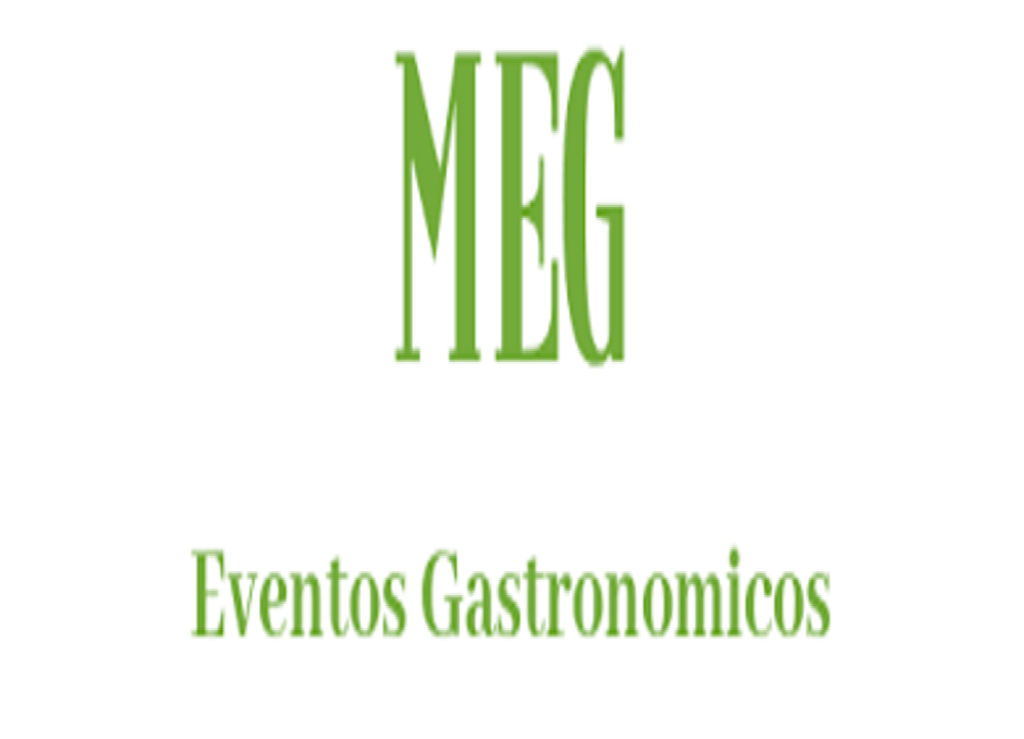
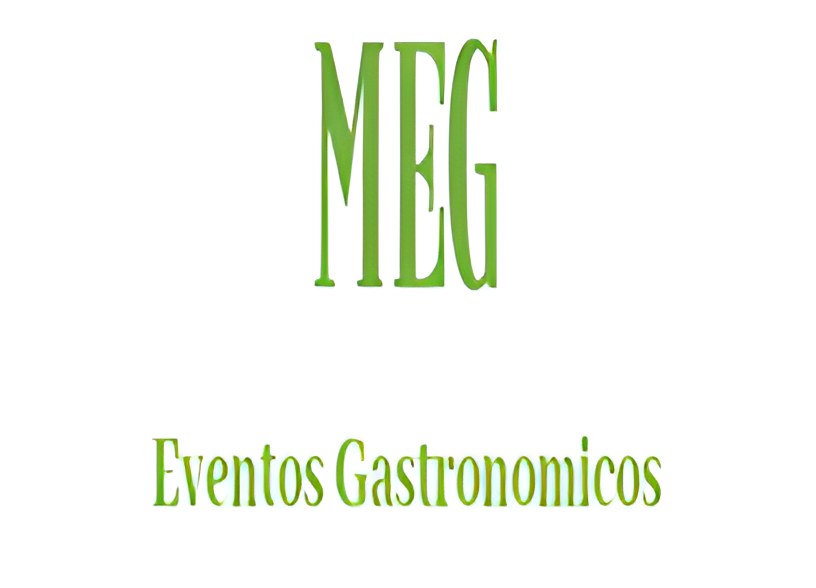
haciendo arreglos de fondo y color de texto

Changed region(s): [[0.1838, 0.7347, 0.8272, 0.8878], [0.3676, 0.0612, 0.6127, 0.4898], [0.3676, 0.1531, 0.3983, 0.2143]]

diff --git a/css/main.css b/css/main.css
@@ -1,13 +1,13 @@
 * {
   margin: 0;
   padding: 0;
-  font-family: Cambria, Cochin, Georgia, Times, 'Times New Roman', serif;
-  color: black; }
+  font-family: Cambria, Cochin, Georgia, Times, 'Times New Roman', serif; }
 
 body {
-  background-image: url(../images/imagen_fondo.png);
+  background-image: url(../images/imagen_fondo2.png);
   background-position: center;
-  background-repeat: no-repeat; }
+  background-repeat: no-repeat;
+  background-size: cover; }
 
 .barraNav {
   border-bottom: solid 3px black; }
@@ -24,6 +24,7 @@ body {
 
 .logosFooter {
   background-color: grey;
+  margin-top: 5%;
   border-top: solid 3px black;
   font-size: 25px;
   text-align: center; }
@@ -99,7 +100,9 @@ body {
     margin-left: 5%;
     margin-right: 5%;
     opacity: 0;
-    transition: opacity 1s; }
+    transition: opacity 1s;
+    color: white;
+    -webkit-text-stroke: 0.5px black; }
   .divPlatos .p5 {
     position: absolute;
     top: 55%;
@@ -109,7 +112,9 @@ body {
     margin-left: 5%;
     margin-right: 5%;
     opacity: 0;
-    transition: opacity 1s; }
+    transition: opacity 1s;
+    color: white;
+    -webkit-text-stroke: 0.5px black; }
   .divPlatos .p6 {
     position: absolute;
     top: 55%;
@@ -119,7 +124,9 @@ body {
     margin-left: 5%;
     margin-right: 5%;
     opacity: 0;
-    transition: opacity 1s; }
+    transition: opacity 1s;
+    color: white;
+    -webkit-text-stroke: 0.5px black; }
   .divPlatos:hover .divPlatos__imagenPlatos {
     opacity: 30%; }
   .divPlatos:hover .p1-4 {
@@ -133,17 +140,18 @@ body {
   display: none; }
 
 .delicioso {
-  color: white;
-  -webkit-text-stroke: 1px black; }
+  color: black;
+  -webkit-text-stroke: 0.2px white; }
 
 .footerGaleria {
   margin-top: 10%; }
 
 .titulo {
-  color: black;
+  color: white;
   border-bottom: solid 2px black;
   width: 60%;
-  margin-left: 20%; }
+  margin-left: 20%;
+  -webkit-text-stroke: 1px black; }
 
 .contenedorBibliografia {
   display: flex;
@@ -157,7 +165,8 @@ body {
     border: solid 3px black;
     border-radius: 8px; }
   .contenedorBibliografia__div2 p {
-    color: black;
+    color: white;
+    -webkit-text-stroke: 0.4px black;
     margin-left: 5%;
     max-width: 400px; }
   .contenedorBibliografia .boton {
@@ -175,7 +184,8 @@ body {
       background-color: olivedrab; }
 
 .tituloFormulario {
-  color: black;
+  color: white;
+  -webkit-text-stroke: 1px black;
   text-align: center;
   font-style: italic;
   border-bottom: solid 2px black;
@@ -202,27 +212,36 @@ body {
       border-bottom: solid 2px black; }
     .Catering__Opciones__TresPasos {
       text-align: center;
-      font-style: italic; }
+      font-style: italic;
+      color: white;
+      -webkit-text-stroke: 1px black; }
     .Catering__Opciones div ul {
       list-style: none;
-      margin-right: 10%; }
+      margin-right: 10%;
+      color: white;
+      -webkit-text-stroke: 0.3px black; }
     .Catering__Opciones div p {
-      font-weight: 700; }
+      font-weight: 700;
+      color: white;
+      -webkit-text-stroke: 0.3px black; }
   .Catering .Dulce {
-    font-style: italic; }
+    font-style: italic;
+    color: white;
+    -webkit-text-stroke: 1px black; }
   .Catering .Imagenes {
     display: flex;
     flex-direction: column;
     margin-right: 5%; }
     .Catering .Imagenes__imagenCatering {
       width: 600px;
+      height: 350px;
       margin-top: 10%;
       border: solid 3px black;
       border-radius: 10px; }
   .Catering .carouselCatering {
     display: none; }
   .Catering .footercatering {
-    margin-top: 5%; }
+    margin-top: 20%; }
 
 @media screen and (max-width: 1024px) {
   /* INDEX */

diff --git a/web_pages/catering.html b/web_pages/catering.html
@@ -84,16 +84,16 @@
         <div class="mesaDulce">
           <h2 class="Dulce">MESA DULCE</h2>
           <ul>
-            <li class="alimento">Torta Brownie</li>
-            <li class="alimento">Tarta de frutillas</li>
-            <li class="alimento">Torta Rogel</li>
-            <li class="alimento">Chescake de naranja</li>
-            <li class="alimento">Marquise de chocolate y frutos rojos</li>
-            <li class="alimento">Genoise de chocolate, crema de limón y menta</li>
-            <li class="alimento">Alimento 7</li>
-            <li class="alimento">Alimento 8</li>
-            <li class="alimento">Alimento 9</li>
-            <li class="alimento">Alimento 10</li>
+            <li class="alimento">Torta Brownie.</li>
+            <li class="alimento">Tarta de frutillas.</li>
+            <li class="alimento">Torta Rogel.</li>
+            <li class="alimento">Chescake de naranja.</li>
+            <li class="alimento">Marquise de chocolate y frutos rojos.</li>
+            <li class="alimento">Genoise de chocolate, crema de limón y menta.</li>
+            <li class="alimento">Mini lemon pie.</li>
+            <li class="alimento">Tiramisu.</li>
+            <li class="alimento">Pincho de frutilla, menta y chocolate.</li>
+            <li class="alimento">Pincho crocante de manzana y masa philo.</li>
           </ul>
         </div>
       </div>
@@ -106,13 +106,13 @@
         </div>
         <div class="carousel-inner">
           <div class="carousel-item active">
-            <img src="../images/imagen_principal.png" class="d-block w-100 fotocatering" alt="Imagen plato 1">
+            <img src="../images/imagen-catering1.png" class="d-block w-100 fotocatering" alt="Imagen plato 1">
           </div>
           <div class="carousel-item">
-            <img src="../images/imagen_principal.png" class="d-block w-100 fotocatering" alt="Imagen plato 2">
+            <img src="../images/imagen-catering2.png" class="d-block w-100 fotocatering" alt="Imagen plato 2">
           </div>
           <div class="carousel-item">
-            <img src="../images/imagen_principal.png" class="d-block w-100 fotocatering" alt="Imagen plato 3">
+            <img src="../images/imagen-catering3.png" class="d-block w-100 fotocatering" alt="Imagen plato 3">
           </div>
         </div>
         <button class="carousel-control-prev" type="button" data-bs-target="#CarrouselCatering" data-bs-slide="prev">
@@ -125,9 +125,9 @@
         </button>
       </div>
       <div class="Imagenes">
-        <img src="../images/imagen_principal.png" alt="Imagen plato 1" class="Imagenes__imagenCatering">
-        <img src="../images/imagen_principal.png" alt="Imagen plato 2" class="Imagenes__imagenCatering">
-        <img src="../images/imagen_principal.png" alt="Imagen plato 3" class="Imagenes__imagenCatering">
+        <img src="../images/imagen-catering1.png" alt="Imagen plato 1" class="Imagenes__imagenCatering">
+        <img src="../images/imagen-catering2.png" alt="Imagen plato 2" class="Imagenes__imagenCatering">
+        <img src="../images/imagen-catering3.png" alt="Imagen plato 3" class="Imagenes__imagenCatering">
       </div>
     </section>
 

diff --git a/scss/_catering.scss b/scss/_catering.scss
@@ -11,19 +11,27 @@
         &__TresPasos {
             text-align:center;
             font-style: italic;
+            color: white;
+            -webkit-text-stroke: 1px black;
         }
         div {
             ul{
                 list-style: none;
                 margin-right: 10%;
+                color: white;
+                -webkit-text-stroke: 0.3px black;
             }
             p {
-                font-weight: 700; 
+                font-weight: 700;
+                color: white;
+                -webkit-text-stroke: 0.3px black;
             }
         }
     }
     .Dulce {
         font-style: italic;
+        color: white;
+        -webkit-text-stroke: 1px black;
     }
     .Imagenes{
         display: flex;
@@ -31,6 +39,7 @@
         margin-right: 5%;
         &__imagenCatering {
             width: 600px;
+            height: 350px;
             margin-top: 10%;
             border: map-get($borders, "image-border" );
             border-radius: 10px;
@@ -40,6 +49,6 @@
         display: none;
     }
     .footercatering {
-        margin-top: 5%;
+        margin-top: 20%;
     }
 }

diff --git a/scss/_mis_platos.scss b/scss/_mis_platos.scss
@@ -17,12 +17,18 @@
     }
     .p1-4 {
         @include textoPlatos1 (55%, 30%);
+        color: white;
+        -webkit-text-stroke: 0.5px black;
     }
     .p5{
         @include textoPlatos1 (55%, 25%);
+        color: white;
+        -webkit-text-stroke: 0.5px black;
     }
     .p6 {
         @include textoPlatos1 (55%, 25%);
+        color: white;
+        -webkit-text-stroke: 0.5px black;
     }
     &:hover &__imagenPlatos {
         opacity: map-get($opacity, "image-opacity" );
@@ -41,8 +47,8 @@
     display: none;
 }
 .delicioso {
-    color: white;
-    -webkit-text-stroke: 1px black;
+    color: black;
+    -webkit-text-stroke: 0.2px white;
 }
 .footerGaleria {
     margin-top: 10%;

diff --git a/scss/_general.scss b/scss/_general.scss
@@ -2,12 +2,12 @@
     margin: 0;
     padding: 0;
     font-family: Cambria, Cochin, Georgia, Times, 'Times New Roman', serif;
-    color: black;
 }
 body {
-    background-image: url(../images/imagen_fondo.png);
+    background-image: url(../images/imagen_fondo2.png);
     background-position: center;
     background-repeat: no-repeat;
+    background-size: cover;
 }
 .barraNav {
     border-bottom: map-get($borders, "image-border");
@@ -28,6 +28,7 @@ body {
 }
 .logosFooter {
     background-color: grey;
+    margin-top: 5%;
     border-top: map-get($borders, "image-border");
     font-size: 25px;
     text-align: center;

diff --git a/scss/_quien_soy.scss b/scss/_quien_soy.scss
@@ -1,8 +1,9 @@
 .titulo{
-    color: black;
+    color: white;
     border-bottom: map-get($borders, "title-borders");
     width: 60%;
     margin-left: 20%;
+    -webkit-text-stroke: 1px black;
 }
 .contenedorBibliografia{
     display: flex;
@@ -20,7 +21,8 @@
     }
     &__div2{
         p {
-            color: black;
+            color: white;
+            -webkit-text-stroke: 0.4px black;
     margin-left: 5%;
     max-width: 400px;
         }

diff --git a/scss/_contacto.scss b/scss/_contacto.scss
@@ -1,5 +1,6 @@
 .tituloFormulario{
-    color: black;
+    color: white;
+    -webkit-text-stroke: 1px black;
     text-align: center;
     font-style: italic;
     border-bottom: map-get($borders, "title-borders" );
